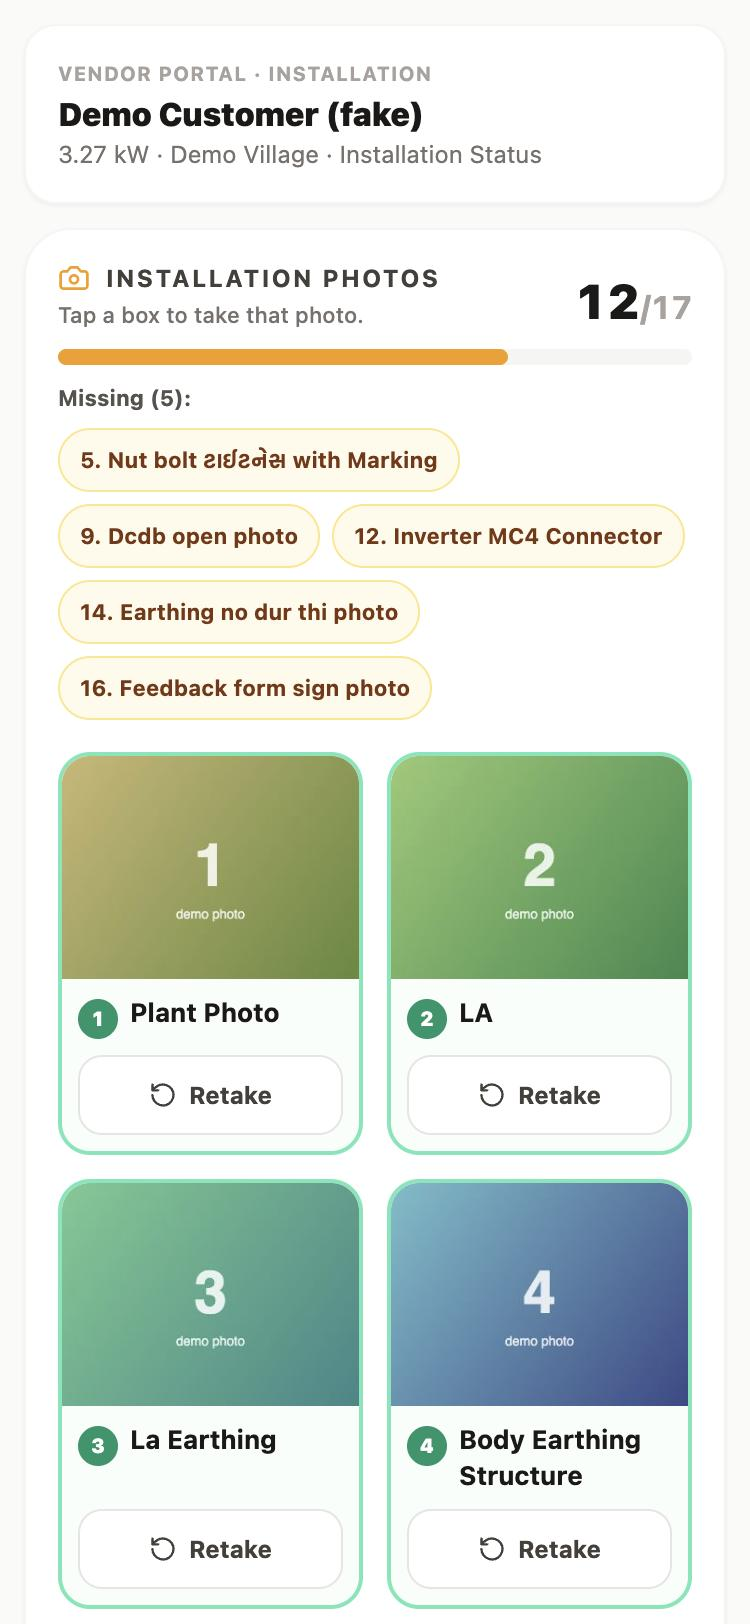
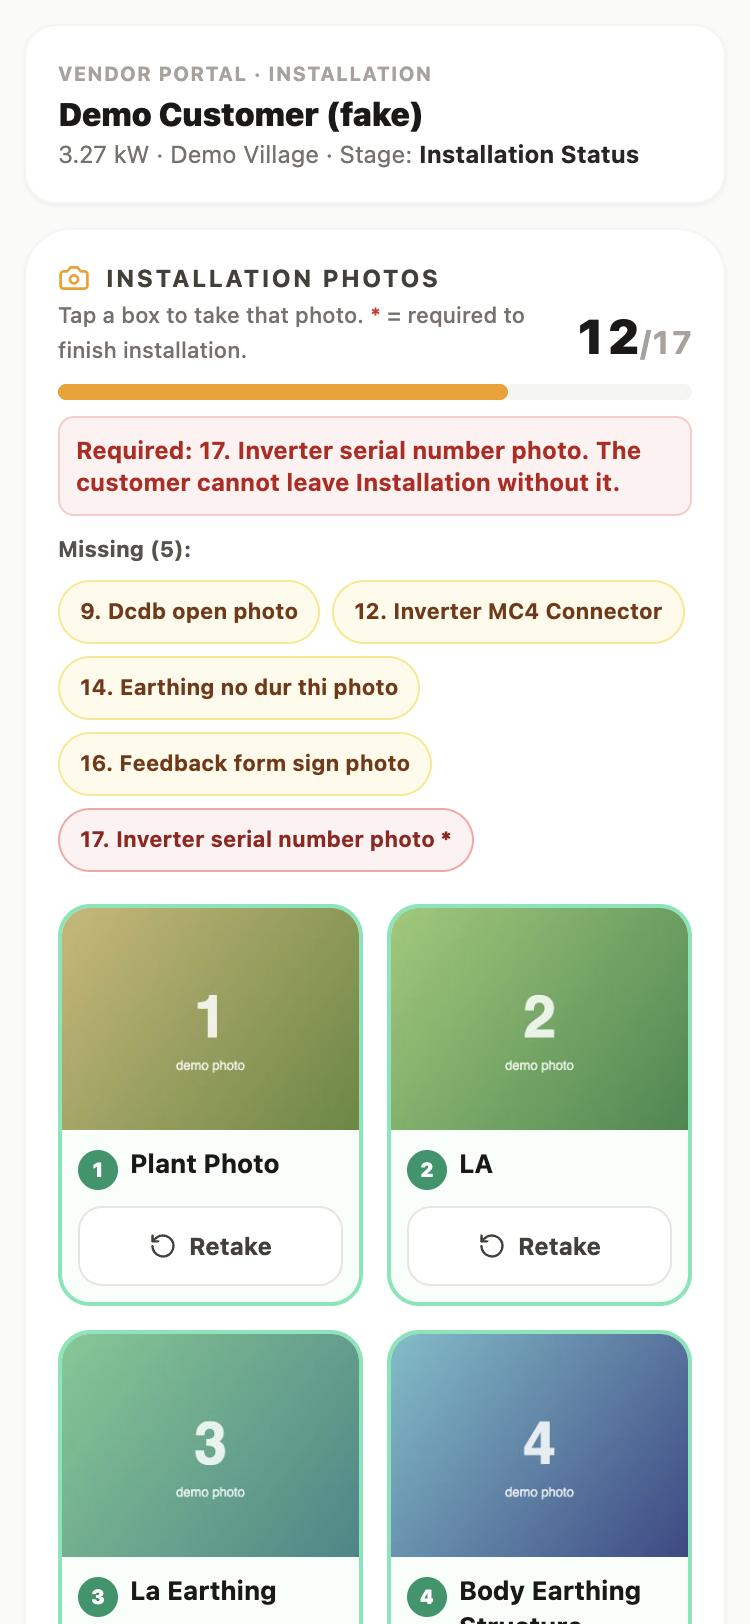
Inverter serial number photo required to leave Installation (D-043)
Of the 17 installation photos, #17 is now required: red * and Required tag,
a red line while missing, and the move from Installation Status to Geo Tag
Photo is blocked on the customer card and in the vendor portal. The other 16
stay optional; #17 never moves the stage. No SQL. Demo, tests, screenshots.

diff --git a/src/components/InstallationPhotos.jsx b/src/components/InstallationPhotos.jsx
@@ -6,7 +6,9 @@ import { installPhotoStatus } from '../utils/installPhotos';
 // with a count (12/17) and the missing names. Used on the customer card (Installation Status)
 // and in the vendor portal (Installation tab). Each photo is a customer document whose
 // doc_type is the slot (src/utils/installPhotos.js); a retake replaces the slot's photo.
-// D-041: the 17 are optional and never block or move the stage; only the geo tag photo does.
+// D-041: the 17 are optional and never move the stage; only the geo tag photo does.
+// D-043: #17 (Inverter serial number photo) is required: shown with a red * and "Required", and
+// the Installation stage cannot be left without it (checked where the stage is moved).
 //
 // Props:
 //   documents   the customer's documents
@@ -87,7 +89,7 @@ export default function InstallationPhotos({ documents = [], canUpload = false, 
             <div className="flex items-end justify-between gap-3">
                 <div>
                     <h4 className="flex items-center gap-2 text-xs font-bold uppercase tracking-widest text-stone-700"><Camera className="h-4 w-4 text-amber-500" aria-hidden="true" /> Installation photos</h4>
-                    <p className="mt-0.5 text-[11px] font-medium text-stone-500">{canUpload ? 'Tap a box to take that photo.' : 'Photos taken by the installer.'}</p>
+                    <p className="mt-0.5 text-[11px] font-medium text-stone-500">{canUpload ? 'Tap a box to take that photo.' : 'Photos taken by the installer.'} <span className="text-red-600">*</span> = required to finish installation.</p>
                 </div>
                 <p className={`text-2xl font-black tabular-nums ${allDone ? 'text-emerald-600' : 'text-stone-900'}`} aria-label={`${status.done} of ${status.total} photos taken`}>
                     {status.done}<span className="text-base font-bold text-stone-400">/{status.total}</span>
@@ -96,6 +98,9 @@ export default function InstallationPhotos({ documents = [], canUpload = false, 
             <div className="h-2 overflow-hidden rounded-full bg-stone-100" role="progressbar" aria-valuemin={0} aria-valuemax={status.total} aria-valuenow={status.done}>
                 <div className={`h-full rounded-full ${allDone ? 'bg-emerald-500' : 'bg-amber-500'}`} style={{ width: `${percent}%` }} />
             </div>
+            {status.requiredMissing.length > 0 && <p className="rounded-lg border border-red-200 bg-red-50 p-2 text-xs font-bold text-red-700">
+                Required: {status.requiredMissing.map(slot => `${slot.number}. ${slot.name}`).join(', ')}. The customer cannot leave Installation without it.
+            </p>}
             {status.done === 0
                 ? <p className="text-xs font-bold text-stone-600">No photos yet: {status.total} to take.</p>
                 : allDone
@@ -104,7 +109,7 @@ export default function InstallationPhotos({ documents = [], canUpload = false, 
                     <p className="mb-1.5 text-[11px] font-bold text-stone-600">Missing ({status.missing.length}):</p>
                     <ul className="flex flex-wrap gap-1.5">
                         {status.missing.map(slot => <li key={slot.docType}>
-                            <button type="button" onClick={() => jump(slot.docType)} className="min-h-8 rounded-full border border-amber-200 bg-amber-50 px-2.5 text-[11px] font-bold text-amber-900">{slot.number}. {slot.name}</button>
+                            <button type="button" onClick={() => jump(slot.docType)} className={`min-h-8 rounded-full border px-2.5 text-[11px] font-bold ${slot.required ? 'border-red-300 bg-red-50 text-red-800' : 'border-amber-200 bg-amber-50 text-amber-900'}`}>{slot.number}. {slot.name}{slot.required && <><span aria-hidden="true"> *</span><span className="sr-only"> (required)</span></>}</button>
                         </li>)}
                     </ul>
                 </div>}
@@ -116,14 +121,17 @@ export default function InstallationPhotos({ documents = [], canUpload = false, 
                 const busy = adding === slot.docType;
                 const url = slot.doc ? urls[slot.doc.storage_path] : '';
                 const picker = <input type="file" accept="image/*" disabled={Boolean(adding)} onChange={event => take(slot, event.target)} className="sr-only"
-                    aria-label={`${slot.doc ? 'Retake' : 'Take'} photo: ${slot.number}. ${slot.name}`} />;
+                    aria-label={`${slot.doc ? 'Retake' : 'Take'} photo: ${slot.number}. ${slot.name}${slot.required ? ' (required)' : ''}`} />;
                 const caption = <div className="flex items-start gap-1.5 p-2">
                     <span className={`mt-0.5 inline-flex h-5 min-w-5 shrink-0 items-center justify-center rounded-full px-1 text-[10px] font-black ${slot.doc ? 'bg-emerald-600 text-white' : 'bg-stone-200 text-stone-700'}`}>{slot.number}</span>
-                    <span className="text-[13px] font-bold leading-snug text-stone-900 break-words">{slot.name}</span>
+                    <span className="text-[13px] font-bold leading-snug text-stone-900 break-words">
+                        {slot.name}{slot.required && <span className="text-red-600" aria-hidden="true"> *</span>}
+                        {slot.required && <span className="ml-1 inline-block rounded-full bg-red-100 px-1.5 py-0.5 align-middle text-[10px] font-black uppercase tracking-wide text-red-700">Required</span>}
+                    </span>
                 </div>;
                 const frame = 'flex aspect-[4/3] w-full items-center justify-center overflow-hidden bg-stone-100';
                 return <li key={slot.docType} id={`install-photo-${slot.docType}`}
-                    className={`flex flex-col overflow-hidden rounded-2xl border-2 ${slot.doc ? 'border-emerald-300 bg-emerald-50/40' : 'border-dashed border-stone-300 bg-white'} ${adding && !busy ? 'opacity-60' : ''}`}>
+                    className={`flex flex-col overflow-hidden rounded-2xl border-2 ${slot.doc ? 'border-emerald-300 bg-emerald-50/40' : slot.required ? 'border-dashed border-red-400 bg-white' : 'border-dashed border-stone-300 bg-white'} ${adding && !busy ? 'opacity-60' : ''}`}>
                     {slot.doc
                         ? <button type="button" onClick={() => onPreview?.(slot.doc)} className={`${frame} relative`} aria-label={`Open photo: ${slot.number}. ${slot.name}`}>
                             {url ? <img src={url} alt="" loading="lazy" decoding="async" className="h-full w-full object-cover" /> : <CheckCircle2 size={32} className="text-emerald-500" aria-hidden="true" />}

diff --git a/src/dev/installPhotosDemo.jsx b/src/dev/installPhotosDemo.jsx
@@ -2,19 +2,20 @@
 // Fake customer, fake photos drawn in the browser, no login and no network.
 // ?done=0 | 12 | 17 (how many photos are already taken), ?view=vendor | office (read only)
 // | geo (the geo tag photo on the customer card, with the D-042 "is the geo tag clear?" check).
+// The vendor view has a "Move to Geo Tag Photo" button with the D-043 check (#17 required).
 import { useCallback, useState } from 'react';
 import { createRoot } from 'react-dom/client';
 import '../index.css';
 import InstallationPhotos from '../components/InstallationPhotos';
-import { INSTALL_PHOTOS } from '../utils/installPhotos';
+import { INSTALL_PHOTOS, requiredInstallPhotoProblems } from '../utils/installPhotos';
 import { CheckboxRemarkItem } from '../components/modal-tabs/shared';
-import { GlobalPopupProvider } from '../components/GlobalPopup';
+import { GlobalPopupProvider, useGlobalPopup } from '../components/GlobalPopup';
 
 const params = new URLSearchParams(location.search);
 const done = Math.min(17, Math.max(0, Number(params.get('done') ?? 12)));
 const readOnly = params.get('view') === 'office';
-// Taken photos: a spread so the missing ones are not all at the end.
-const order = [0, 1, 2, 3, 5, 6, 7, 9, 10, 12, 14, 16, 4, 8, 11, 13, 15];
+// Taken photos: a spread so the missing ones are not all at the end; #17 (required) is taken last.
+const order = [0, 1, 2, 3, 5, 6, 7, 9, 10, 12, 14, 4, 8, 11, 13, 15, 16];
 const taken = new Set(order.slice(0, done));
 
 // A made-up "photo": a coloured tile with the slot number.
@@ -36,6 +37,17 @@ function Demo() {
         ? [{ id: `d${i}`, doc_type: p.docType, storage_path: `demo/${i + 1}`, file_name: `photo-${i + 1}.jpg`, uploaded_at: new Date(Date.now() - (20 - i) * 60000).toISOString() }]
         : []));
     const [open, setOpen] = useState(null);
+    const [stage, setStage] = useState('Installation Status');
+    const { showAlert } = useGlobalPopup();
+    // Same check and message as the vendor portal's move to Geo Tag Photo (D-043).
+    const moveOn = () => {
+        const missing = requiredInstallPhotoProblems(docs).map(line => `Upload ${line}.`);
+        if (missing.length) {
+            showAlert(`To move forward to Geo Tag Photo, please complete:\n• ${missing.join('\n• ')}`, { title: 'Installation Incomplete', type: 'warning' });
+            return;
+        }
+        setStage('Geo Tag Photo');
+    };
     const getUrl = useCallback(doc => fakePhoto(Number(String(doc.storage_path).split('/').pop())), []);
     const upload = async (file, docType) => {
         await new Promise(resolve => setTimeout(resolve, 500));
@@ -48,9 +60,11 @@ function Demo() {
             <div className="rounded-2xl border border-stone-100 bg-white p-4 shadow-sm">
                 <p className="text-[10px] font-bold uppercase tracking-wider text-stone-400">{readOnly ? 'Customer card · Installation Status' : 'Vendor portal · Installation'}</p>
                 <p className="text-base font-black text-stone-900">Demo Customer (fake)</p>
-                <p className="text-xs text-stone-500">3.27 kW · Demo Village · Installation Status</p>
+                <p className="text-xs text-stone-500">3.27 kW · Demo Village · Stage: <span className={`font-bold ${stage === 'Geo Tag Photo' ? 'text-emerald-700' : 'text-stone-800'}`}>{stage}</span></p>
             </div>
             <InstallationPhotos documents={docs} canUpload={!readOnly} onUpload={upload} onPreview={doc => setOpen(doc)} getUrl={getUrl} />
+            {!readOnly && stage === 'Installation Status' && <button type="button" onClick={moveOn}
+                className="min-h-12 w-full rounded-2xl bg-amber-500 text-sm font-bold text-white">Save &amp; move to Geo Tag Photo</button>}
         </div>
         {open && <button type="button" onClick={() => setOpen(null)} className="fixed inset-0 flex items-center justify-center bg-black/80 p-4" aria-label="Close photo">
             <img src={getUrl(open)} alt="" className="max-h-full max-w-full rounded-xl" />
@@ -84,4 +98,4 @@ function GeoDemo() {
     </div>;
 }
 
-createRoot(document.getElementById('root')).render(params.get('view') === 'geo' ? <GlobalPopupProvider><GeoDemo /></GlobalPopupProvider> : <Demo />);
+createRoot(document.getElementById('root')).render(<GlobalPopupProvider>{params.get('view') === 'geo' ? <GeoDemo /> : <Demo />}</GlobalPopupProvider>);

diff --git a/src/utils/installPhotos.js b/src/utils/installPhotos.js
@@ -3,8 +3,11 @@
 // like the geo tag photo, so no database change is needed. The names are the client's own words
 // (Gujarati included); do not "correct" them. List: docs/client-requests-2026-11-14/installation-photos.md
 //
-// D-041: the 17 are optional records. They never block, move the stage or set a status; the
-// app only shows what is missing. Only the geo tag photo is required, and only it moves the stage.
+// D-041: the 17 are optional records. They never move the stage or set a status; the app only
+// shows what is missing. Only the geo tag photo moves the stage.
+// D-043 (2026-11-19): one exception, #17 "Inverter serial number photo" is required. Without it
+// the customer cannot leave the Installation stage (customer card and vendor portal), the same
+// way the geo tag photo blocks its own stage. It still never moves the stage by itself.
 
 export const INSTALL_PHOTOS = [
     { docType: 'install_plant_photo', name: 'Plant Photo' },
@@ -23,7 +26,7 @@ export const INSTALL_PHOTOS = [
     { docType: 'install_earthing_far', name: 'Earthing no dur thi photo' },
     { docType: 'install_google_review', name: 'Customer Reviews google no photo' },
     { docType: 'install_feedback_form_sign', name: 'Feedback form sign photo' },
-    { docType: 'install_inverter_serial', name: 'Inverter serial number photo' },
+    { docType: 'install_inverter_serial', name: 'Inverter serial number photo', required: true },
 ];
 
 // doc_type -> the client's name, for the documents list.
@@ -31,10 +34,14 @@ export const INSTALL_PHOTO_LABELS = Object.fromEntries(INSTALL_PHOTOS.map(({ doc
 
 export const isInstallPhotoType = docType => Object.prototype.hasOwnProperty.call(INSTALL_PHOTO_LABELS, docType);
 
+// The photos that must be there before the customer leaves the Installation stage (D-043).
+export const REQUIRED_INSTALL_PHOTOS = INSTALL_PHOTOS.filter(photo => photo.required);
+
 const uploadedAt = doc => Date.parse(doc?.uploaded_at || doc?.created_at || '') || 0;
 
 // Where the 17 photos stand for one customer's documents:
-// { total, done, missing: [{ docType, name, number }], slots: [{ docType, name, number, doc }] }.
+// { total, done, missing: [{ docType, name, number, required }], requiredMissing: [same],
+//   slots: [{ docType, name, number, required, doc }] }.
 // When a slot has more than one file (a retake whose old copy could not be removed), the newest counts.
 export function installPhotoStatus(documents = []) {
     const newest = {};
@@ -42,7 +49,12 @@ export function installPhotoStatus(documents = []) {
         if (!doc || !isInstallPhotoType(doc.doc_type)) continue;
         if (!newest[doc.doc_type] || uploadedAt(doc) >= uploadedAt(newest[doc.doc_type])) newest[doc.doc_type] = doc;
     }
-    const slots = INSTALL_PHOTOS.map((photo, index) => ({ ...photo, number: index + 1, doc: newest[photo.docType] || null }));
-    const missing = slots.filter(slot => !slot.doc).map(({ docType, name, number }) => ({ docType, name, number }));
-    return { total: slots.length, done: slots.length - missing.length, missing, slots };
+    const slots = INSTALL_PHOTOS.map((photo, index) => ({ ...photo, required: Boolean(photo.required), number: index + 1, doc: newest[photo.docType] || null }));
+    const missing = slots.filter(slot => !slot.doc).map(({ docType, name, number, required }) => ({ docType, name, number, required }));
+    return { total: slots.length, done: slots.length - missing.length, missing, requiredMissing: missing.filter(slot => slot.required), slots };
+}
+
+// One plain line per missing required photo, for the blocked-move message; [] when none (D-043).
+export function requiredInstallPhotoProblems(documents = []) {
+    return installPhotoStatus(documents).requiredMissing.map(slot => `Installation photo ${slot.number}: ${slot.name} (required)`);
 }

diff --git a/src/components/CustomerDetailModal.jsx b/src/components/CustomerDetailModal.jsx
@@ -17,6 +17,7 @@ import {
     LayoutDashboard, History, Plus, ShieldCheck, Lock, Unlock, ClipboardList, Banknote, Tag, Mail, PauseCircle, Check,
     Eye, Search, Image as ImageIcon, MessageSquare, Calendar } from 'lucide-react';
 import { PRIMARY_STAGES, STAGE_IDS, SUBSIDY_TAGS, SUBSIDY_TAG_COLORS, LOAN_TAGS, LOAN_TAG_COLORS, ROOF_BOM_TEMPLATE, SHED_BOM_TEMPLATE, DOC_TYPE_LABELS, DOC_TYPE_FLAG_COLUMN, isPaymentUndecided } from '../constants';
+import { requiredInstallPhotoProblems } from '../utils/installPhotos';
 import { logActivity, formatDateToDDMMYYYY, parseIndianNumber, fetchAgent2SubAgents, normalizeMeterInstallation, sanitizePhoneNumber, logFieldChanges, readAdminFields } from '../utils';
 import { supabase } from '../supabase';
 import HistoryEntryEditor from './HistoryEntryEditor';
@@ -1300,6 +1301,8 @@ export default function CustomerDetailModal({ customer, onClose, onUpdate, onDel
                 // Exact match blocked records the vendor had set to the legacy
                 // value 'Yes' - the admin could not advance them at all.
                 requireField(normalizeInstallationStatus(editData.installation_status) === 'Yes', 'Installation Status must be Installed');
+                // D-043: the inverter serial number photo must be uploaded first (the other 16 stay optional).
+                issues.push(...requiredInstallPhotoProblems(documents));
                 break;
             case STAGE_IDS.GEO_TAG_PHOTO:
                 requireField(editData.geo_tag_status === 'Proceed', 'Geo Tag Photo Status must be Proceed');

diff --git a/src/components/VendorPortal.jsx b/src/components/VendorPortal.jsx
@@ -11,7 +11,7 @@ import { FilePreviewModal } from './modal-tabs/shared';
 import { STAGE_IDS, PRIMARY_STAGES, INSTALLATION_TAGS, VENDOR_LIST_COLUMNS, isFinalTagValue } from '../constants';
 import InstallationPhotos from './InstallationPhotos';
 import GeoTagConfirm from './GeoTagConfirm';
-import { INSTALL_PHOTO_LABELS } from '../utils/installPhotos';
+import { INSTALL_PHOTO_LABELS, requiredInstallPhotoProblems } from '../utils/installPhotos';
 import { isReturnedDocument } from './modal-tabs/shared';
 import { useGlobalPopup } from './GlobalPopup';
 import BrandMark from './BrandMark';
@@ -547,6 +547,8 @@ export default function VendorPortal({ user, onLogout, onOpenDevSwitcher }) {
             if (!effectiveInstallDate) {
                 missingItems.push('Installation Date must be selected.');
             }
+            // D-043: the inverter serial number photo is required (the other 16 photos stay optional).
+            missingItems.push(...requiredInstallPhotoProblems(documents).map(line => `Upload ${line}.`));
 
             if (missingItems.length > 0) {
                 const message = `To move forward to Geo Tag Photo, please complete:\n• ${missingItems.join('\n• ')}`;

diff --git a/CHANGELOG.md b/CHANGELOG.md
@@ -10,9 +10,10 @@ Entries before 2026-11-16 were reconstructed on that date from the git history (
   - Installation photos: 17 big photo boxes with a count (e.g. 12/17) and the missing names, on the customer card (Installation Status) and in the vendor portal (Installation tab). Each photo is a customer document with its own type (`install_*`), so no SQL. Optional: never blocks or moves the stage (Mahvish's rule, next line). None of the 17 is the geo tag photo, which stays separate.
   - Tata OEM claim: same steps as the other OEMs (D-038). The PDF is Tata's Field Service Report (N010652 rev 04) filled in from the complaint, customer card and latest visit, then the usual claim pages with every photo. Sales order no., battery checks, loads, array current, customer's remarks and both signatures are left blank to fill by hand.
   - Geo tag photo check (D-042): after picking a geo tag photo, it is shown big with "Can you see the geo tag (location, date, time) clearly on this photo?". Yes uploads it and moves the stage as before; No, upload another discards it and opens the gallery / file picker again; nothing is uploaded or moved until Yes. Customer card and vendor portal. No SQL. Screenshots in `docs/client-requests-2026-11-14/geo-tag-confirm/`.
+  - Inverter serial number photo required (D-043): of the 17 installation photos, #17 is now required (red * and "Required"); the customer cannot move from Installation Status to Geo Tag Photo without it, on the customer card or in the vendor portal. The other 16 stay optional; #17 never moves the stage. No SQL. Screenshots in `docs/client-requests-2026-11-14/installation-photos/`.
   - Logged D-041 (geo tag photo required, the 17 installation photos optional; only the geo tag upload moves the stage).
   - Fixed an out-of-date test (`tests/complaintPhotos.test.mjs` did not know the 14 Nov "reading" photo group).
-  - Screenshots and a sample filled Tata PDF (fake data) in `docs/client-requests-2026-11-14/installation-photos/` and `tata-oem-form/`. Lint and build pass; tests 204/206 (the 2 failures are the known `src/quotations/repository.js` import, also failing on `main`).
+  - Screenshots and a sample filled Tata PDF (fake data) in `docs/client-requests-2026-11-14/installation-photos/` and `tata-oem-form/`. Lint and build pass; tests 205/207 (the 2 failures are the known `src/quotations/repository.js` import, also failing on `main`).
 - Client sent the installation photo list (17 photos, not 10) and the Tata OEM form ("FIELD SERVICE REPORT FOR SPV PRODUCTS", Doc No N010652 Rev 04). Mahvish's rules: the geo tag photo is compulsory, and only the geo tag upload moves the stage automatically. The 17 installation photos start as optional and never move the stage or set a status. Work started on branch `feat/nov14-tata-install-photos` (from `feat/client-nov14`).
 - Client bug: the panel brand was not printed on the quotation. Fixed in 42054ca on `claude/quote-panel-brand-482e16` (the Solar modules row now shows the brand). Not deployed.
 - Client bug: a quotation converted to a lead doesn't show in the Add Lead pop-up or on the customer card until a page refresh, so staff add it again. Fix in progress on its own branch from `main`.

diff --git a/DECISIONS.md b/DECISIONS.md
@@ -242,3 +242,10 @@ No prices or billing here: this repo is the client's. Commercial decisions live 
 - Decision: B. After a geo tag photo is picked it is shown big with "Can you see the geo tag (location, date, time) clearly on this photo?". Yes = upload it and move the stage as before. No, upload another = the photo is discarded (never uploaded) and the gallery / file picker opens again straight away (staff upload a photo already taken with a geo tag camera app, not the in-app camera); the X discards it too. An unconfirmed photo never reaches the database, so it can never move the stage. Applies everywhere a geo tag photo is uploaded: the customer card (every checklist row for the geo tag photo) and the vendor portal. On the customer card the geo tag photo now skips the crop step, which could cut off the geo tag. No SQL.
 - Why: a bad photo shouldn't move the stage.
 - Status: Built on `claude/nov14-tata-install-photos-13fa44`, not deployed
+
+## D-043 · 2026-11-19 · Installation photos: the inverter serial number photo is required
+- Context: D-041 made all 17 installation photos optional. Mahvish (2026-11-19): photo #17 "Inverter serial number photo" must be there before installation is finished.
+- Options: A) all 17 optional (D-041 as built), B) inverter serial number photo required, the other 16 optional.
+- Decision: B. The customer cannot leave the Installation Status stage for Geo Tag Photo until photo #17 is uploaded: on the customer card ("Move to next stage" lists "Installation photo 17: Inverter serial number photo (required)") and in the vendor portal (the move to Geo Tag Photo shows the same line). In both photo lists #17 has a red * and a "Required" tag, and a red line says it is still needed. It never moves the stage by itself; only the geo tag photo does (D-041, D-042). Marking the status "Installed" without moving the stage is not blocked **(uncertain)**. The quick stage picker on the dashboard card does not check it, the same as it does not check the geo tag photo **(uncertain)**. No SQL.
+- Why: Mahvish's rule (2026-11-19). The other 16 still start gently (D-041).
+- Status: Built on `claude/nov14-tata-install-photos-13fa44`, not deployed

diff --git a/docs/client-requests-2026-11-14/NOTES.md b/docs/client-requests-2026-11-14/NOTES.md
@@ -5,7 +5,7 @@
 ## 2026-11-19: Tata form and installation photo list received
 Sandeep sent both. Saved as `installation-photos.md` (17 photos) and `tata-oem-form/` (blank form). Built on `claude/nov14-tata-install-photos-13fa44`, not deployed.
 
-- **Installation photos:** 17 photo boxes on the customer card (Installation Status) and in the vendor portal (Installation tab), with a count and the missing names. Screenshots in `installation-photos/`. Optional for now (D-041): nothing is blocked and the stage never moves on these photos; the geo tag photo stays compulsory and separate.
+- **Installation photos:** 17 photo boxes on the customer card (Installation Status) and in the vendor portal (Installation tab), with a count and the missing names. Screenshots in `installation-photos/`. Optional for now (D-041), except #17 "Inverter serial number photo", which is required to move from Installation Status to Geo Tag Photo (D-043). The stage never moves on these photos; the geo tag photo stays compulsory and separate.
 - **Tata claim:** in the OEM replacement box on a complaint, a Tata claim downloads/shares Tata's Field Service Report, filled in, followed by the usual claim pages with every photo. Sample: `tata-oem-form/sample-tata-field-service-report.pdf` (form page only, fake data; remake it with `node scripts/tata-service-report-sample.mjs`). Screenshots in `tata-oem-form/`.
 
 What goes in each box of the Tata form:

diff --git a/docs/client-requests-2026-11-14/installation-photos.md b/docs/client-requests-2026-11-14/installation-photos.md
@@ -22,6 +22,7 @@ Sandeep sent this list on 2026-11-19. There are 17 photos (we expected 10). The 
 
 In the app: one photo slot per name on the customer card (Installation Status) and in the vendor portal (Installation tab). Code: `src/utils/installPhotos.js`.
 
+Required or optional (Mahvish, 2026-11-19): #17 Inverter serial number photo is required before the customer moves from Installation Status to Geo Tag Photo (D-043). The other 16 are optional (D-041). None of them moves the stage.
+
 Open questions for Mahvish / Sandeep:
-- Must all 17 be uploaded before the customer moves on from Installation Status? **(uncertain)** For now the app shows what is missing and does not block.
 - Is "Plant Photo" or "System no dur thi photo" the same as the geo tag photo (stage Geo Tag Photo)? **(uncertain)** For now they are separate.
